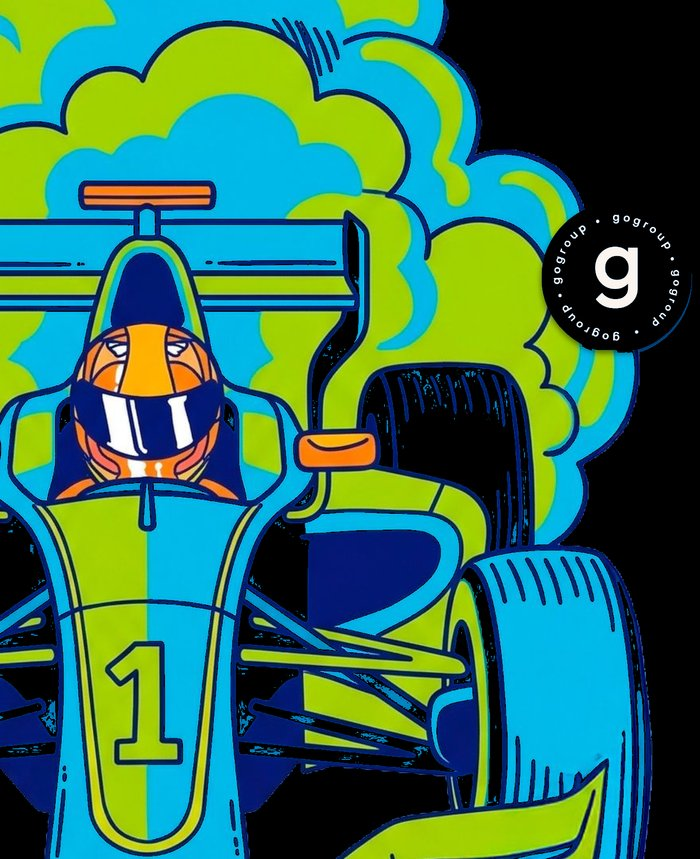
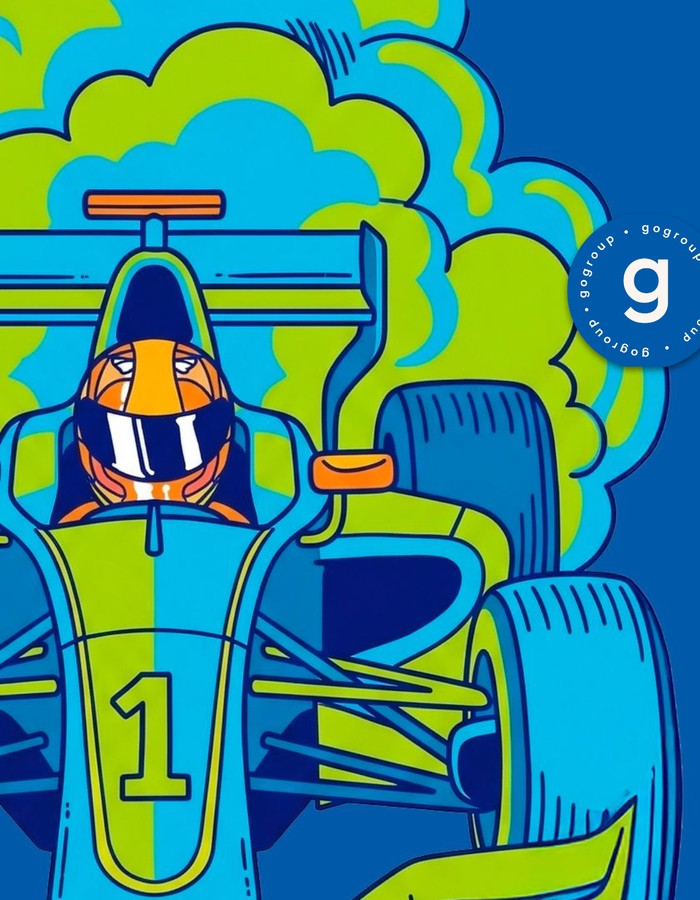
Corrige stickers distorcidos e imagens de mantras cortadas, reforça identidade azul
- .section-doodle só definia width, então a altura caía para o atributo
  HTML bruto em vez de escalar pela proporção — rocket, troféu, globo,
  diamante, capacete e bandeira ficavam esticados verticalmente.
- .value-art usava aspect-ratio incompatível com a arte (21/9 vs 16/9) e,
  no layout desktop, esticava a imagem para cobrir a altura do card
  cortando título e caixa de valores das ilustrações dos mantras.
- Recorta um f1car.jpg limpo direto da arte original (o antigo tinha
  fundo preto de uma extração de transparência malsucedida) e adiciona
  um sticker isolado do carro de F1 para reforçar a identidade de corrida.
- Aumenta presença do azul da marca (fundo, navbar, tarjas de destaque
  nos cards) e reduz o branco predominante.

diff --git a/assets/styles.css b/assets/styles.css
@@ -8,8 +8,8 @@
   --color-primary-dark: #00479A;
   --color-accent: #D7E300;
   --color-accent-hover: #C5D200;
-  --color-background: #F7F7F5;
-  --color-ice: #DDECF7;
+  --color-background: #EAF2FB;
+  --color-ice: #D2E7FA;
   --color-text: #0A3D7A;
   --color-white: #FFFFFF;
   --color-text-soft: #4D6D96;
@@ -66,12 +66,14 @@ ul, ol { list-style: none; margin: 0; padding: 0; }
 .container { max-width: var(--max-width); margin: 0 auto; padding: 0 var(--gutter); position: relative; z-index: 1; }
 
 /* ---------- Decorative doodles (stickers) ---------- */
-.section-doodle { position: absolute; pointer-events: none; z-index: 0; filter: drop-shadow(0 12px 18px rgba(10,61,122,.15)); }
+.section-doodle { position: absolute; height: auto; pointer-events: none; z-index: 0; filter: drop-shadow(0 12px 18px rgba(10,61,122,.15)); }
 @media (max-width: 720px) { .section-doodle { display: none; } }
 .section-doodle-rocket { width: 110px; top: 8%; right: 4%; transform: rotate(12deg); }
 .section-doodle-trophy { width: 110px; bottom: 4%; left: 2%; transform: rotate(-8deg); }
 .section-doodle-globe2 { width: 120px; top: 6%; right: 3%; }
 .section-doodle-diamond { width: 100px; bottom: 8%; right: 4%; transform: rotate(10deg); }
+.section-doodle-rocket2 { width: 100px; top: 10%; right: 3%; transform: rotate(-10deg); }
+.section-doodle-f1car { width: 190px; bottom: 0; right: 3%; border-radius: var(--radius-md); }
 
 .icon { flex-shrink: 0; }
 
@@ -108,8 +110,8 @@ ul, ol { list-style: none; margin: 0; padding: 0; }
 /* ---------- Navbar ---------- */
 .navbar {
   position: sticky; top: 0; z-index: 1000;
-  background: rgba(247, 247, 245, 0.86); backdrop-filter: blur(10px);
-  border-bottom: 1px solid rgba(10, 61, 122, 0.06);
+  background: rgba(234, 242, 251, 0.88); backdrop-filter: blur(10px);
+  border-bottom: 1px solid rgba(10, 61, 122, 0.1);
   transition: box-shadow var(--dur-mid) var(--ease);
 }
 .navbar.is-scrolled { box-shadow: 0 8px 24px -18px rgba(10,61,122,.35); }
@@ -197,7 +199,11 @@ h2 { font-size: clamp(1.9rem, 3.2vw, 2.7rem); }
 .brand-statement-inverse { color: var(--color-accent); }
 
 /* ================= HERO ================= */
-.hero { padding: 56px 0 90px; position: relative; overflow: hidden; }
+.hero {
+  padding: 56px 0 90px; position: relative; overflow: hidden;
+  background: radial-gradient(circle at 82% 30%, rgba(0,88,181,.10), transparent 55%),
+              radial-gradient(circle at 10% 90%, rgba(0,88,181,.07), transparent 45%);
+}
 .hero-grid { display: grid; gap: 56px; align-items: center; }
 .hero h1 { font-size: clamp(2.4rem, 6vw, 4.5rem); letter-spacing: -.01em; }
 .text-accent-outline { color: var(--color-primary); position: relative; }
@@ -261,6 +267,7 @@ h2 { font-size: clamp(1.9rem, 3.2vw, 2.7rem); }
   background: var(--color-white); border-radius: var(--radius-lg); padding: 30px 24px;
   text-decoration: none; box-shadow: var(--shadow-card); display: flex; flex-direction: column; gap: 14px;
   min-height: 130px; justify-content: space-between;
+  border-top: 3px solid var(--color-primary);
   transition: transform var(--dur-fast) var(--ease), box-shadow var(--dur-fast) var(--ease);
 }
 .brand-card:hover { transform: translateY(-4px) scale(1.01); box-shadow: 0 22px 40px -20px rgba(10,61,122,.3); }
@@ -280,7 +287,7 @@ h2 { font-size: clamp(1.9rem, 3.2vw, 2.7rem); }
   background: var(--color-white); border-radius: var(--radius-card); overflow: hidden;
   box-shadow: var(--shadow-card); display: flex; flex-direction: column;
 }
-.value-art { width: 100%; aspect-ratio: 21/9; object-fit: cover; display: block; }
+.value-art { width: 100%; aspect-ratio: 16/9; object-fit: cover; display: block; background: #1E4E96; }
 .value-body { padding: 30px 28px 34px; }
 .value-tag { display: inline-block; font-family: 'Courier New', monospace; font-weight: 700; font-size: .8rem; color: var(--color-primary); background: var(--color-ice); padding: 4px 10px; border-radius: var(--radius-sm); margin-bottom: 12px; }
 .value-card h3 { font-size: 1.5rem; margin: 0 0 10px; }
@@ -298,7 +305,7 @@ h2 { font-size: clamp(1.9rem, 3.2vw, 2.7rem); }
 @media (min-width: 720px) { .value-compare { grid-template-columns: repeat(2, 1fr); } }
 @media (min-width: 860px) {
   .value-card { flex-direction: row; align-items: stretch; }
-  .value-art { width: 42%; aspect-ratio: auto; flex-shrink: 0; }
+  .value-art { width: 42%; aspect-ratio: auto; object-fit: contain; flex-shrink: 0; }
   .value-body { flex: 1; display: flex; flex-direction: column; justify-content: center; }
 }
 
@@ -318,8 +325,8 @@ h2 { font-size: clamp(1.9rem, 3.2vw, 2.7rem); }
 
 /* ================= NUMBERS ================= */
 .numbers-grid { display: grid; grid-template-columns: repeat(2, 1fr); gap: 16px; }
-.number-card { background: var(--color-white); border-radius: var(--radius-lg); padding: 26px 22px; box-shadow: var(--shadow-card); }
-.number-card-accent { background: var(--color-primary); color: var(--color-white); }
+.number-card { background: var(--color-white); border-radius: var(--radius-lg); padding: 26px 22px; box-shadow: var(--shadow-card); border-top: 3px solid var(--color-primary); }
+.number-card-accent { background: var(--color-primary); color: var(--color-white); border-top-color: var(--color-accent); }
 .number-card-accent .number-label, .number-card-accent .number-growth { color: rgba(255,255,255,.85); }
 .number-label { font-size: .82rem; font-weight: 700; text-transform: uppercase; letter-spacing: .04em; color: var(--color-text-soft); margin-bottom: 8px; }
 .number-value { font-family: var(--font-heading); font-weight: 700; font-size: 1.3rem; margin-bottom: 6px; }
@@ -382,14 +389,14 @@ h2 { font-size: clamp(1.9rem, 3.2vw, 2.7rem); }
 /* ================= OFFICES ================= */
 .office-grid { display: grid; gap: 24px; grid-template-columns: repeat(auto-fit, minmax(240px, 1fr)); }
 .office-group h3 { font-size: 1.05rem; margin-bottom: 14px; color: var(--color-primary); }
-.office-card { display: flex; gap: 12px; align-items: flex-start; background: var(--color-white); border-radius: var(--radius-md); padding: 16px; box-shadow: var(--shadow-card); margin-bottom: 12px; }
+.office-card { display: flex; gap: 12px; align-items: flex-start; background: var(--color-white); border-radius: var(--radius-md); padding: 16px; box-shadow: var(--shadow-card); border-left: 3px solid var(--color-primary); margin-bottom: 12px; }
 .office-card svg { color: var(--color-primary); margin-top: 2px; }
 .office-card p { margin: 2px 0 0; font-size: .92rem; }
 .office-tag { font-size: .72rem; font-weight: 700; text-transform: uppercase; letter-spacing: .05em; color: var(--color-text-soft); }
 
 /* ================= TIPS ================= */
 .tips-grid { display: grid; grid-template-columns: repeat(2, 1fr); gap: 18px; }
-.tip-card { background: var(--color-white); border-radius: var(--radius-card); padding: 30px 24px; box-shadow: var(--shadow-card); transition: transform var(--dur-fast) var(--ease); }
+.tip-card { background: var(--color-white); border-radius: var(--radius-card); padding: 30px 24px; box-shadow: var(--shadow-card); border-top: 3px solid var(--color-primary); transition: transform var(--dur-fast) var(--ease); }
 .tip-card:hover { transform: translateY(-4px); }
 .tip-icon { display: inline-flex; align-items: center; justify-content: center; width: 56px; height: 56px; border-radius: 50%; background: var(--color-ice); color: var(--color-primary); margin-bottom: 16px; }
 .tip-card h3 { font-size: 1.05rem; margin-bottom: 6px; }

diff --git a/index.html b/index.html
@@ -13,7 +13,7 @@
 <link rel="preconnect" href="https://fonts.googleapis.com">
 <link rel="preconnect" href="https://fonts.gstatic.com" crossorigin>
 <link href="https://fonts.googleapis.com/css2?family=Poppins:wght@400;600;700&family=Nunito+Sans:wght@400;600;700&display=swap" rel="stylesheet">
-<link rel="stylesheet" href="assets/styles.css">
+<link rel="stylesheet" href="assets/styles.css?v=2">
 </head>
 <body>
 <a class="skip-link" href="#conteudo">Pular para o conteúdo</a>
@@ -167,7 +167,8 @@
   </section>
 
   <!-- ============ NOSSO UNIVERSO ============ -->
-  <section id="universo" class="section section-tint">
+  <section id="universo" class="section section-tint" style="position:relative; overflow:hidden;">
+    <img class="section-doodle section-doodle-rocket2" src="assets/img/stickers/rocket.png" alt="" aria-hidden="true" loading="lazy" width="300" height="416">
     <div class="container">
       <header class="section-head">
         <p class="kicker">Nosso universo</p>
@@ -488,7 +489,8 @@
   </section>
 
   <!-- ============ COMO É TRABALHAR AQUI ============ -->
-  <section id="trabalhar" class="section section-tint">
+  <section id="trabalhar" class="section section-tint" style="position:relative; overflow:hidden;">
+    <img class="section-doodle section-doodle-f1car" src="assets/img/stickers/f1car-sticker.png" alt="" aria-hidden="true" loading="lazy" width="420" height="515">
     <div class="container">
       <header class="section-head">
         <p class="kicker">Pessoas do Gogroup</p>
@@ -586,7 +588,7 @@
   </section>
 
   <!-- ============ ESCRITÓRIOS & OPERAÇÕES ============ -->
-  <section id="escritorios" class="section" style="position:relative; overflow:hidden;">
+  <section id="escritorios" class="section section-tint" style="position:relative; overflow:hidden;">
     <img class="section-doodle section-doodle-globe2" src="assets/img/stickers/globe.png" alt="" aria-hidden="true" loading="lazy" width="300" height="300">
     <div class="container">
       <header class="section-head">
@@ -702,7 +704,7 @@
 
   <!-- ============ CTA FINAL ============ -->
   <section id="comece" class="final-cta">
-    <img class="final-cta-car" src="assets/img/stickers/f1car.jpg" alt="" aria-hidden="true" loading="lazy" width="700" height="859">
+    <img class="final-cta-car" src="assets/img/stickers/f1car.jpg" alt="" aria-hidden="true" loading="lazy" width="700" height="900">
     <div class="container final-cta-inner">
       <svg class="icon final-cta-doodle" width="52" height="52" aria-hidden="true"><use href="#i-rocket"/></svg>
       <h2>Preparado(a) para começar sua jornada?</h2>
